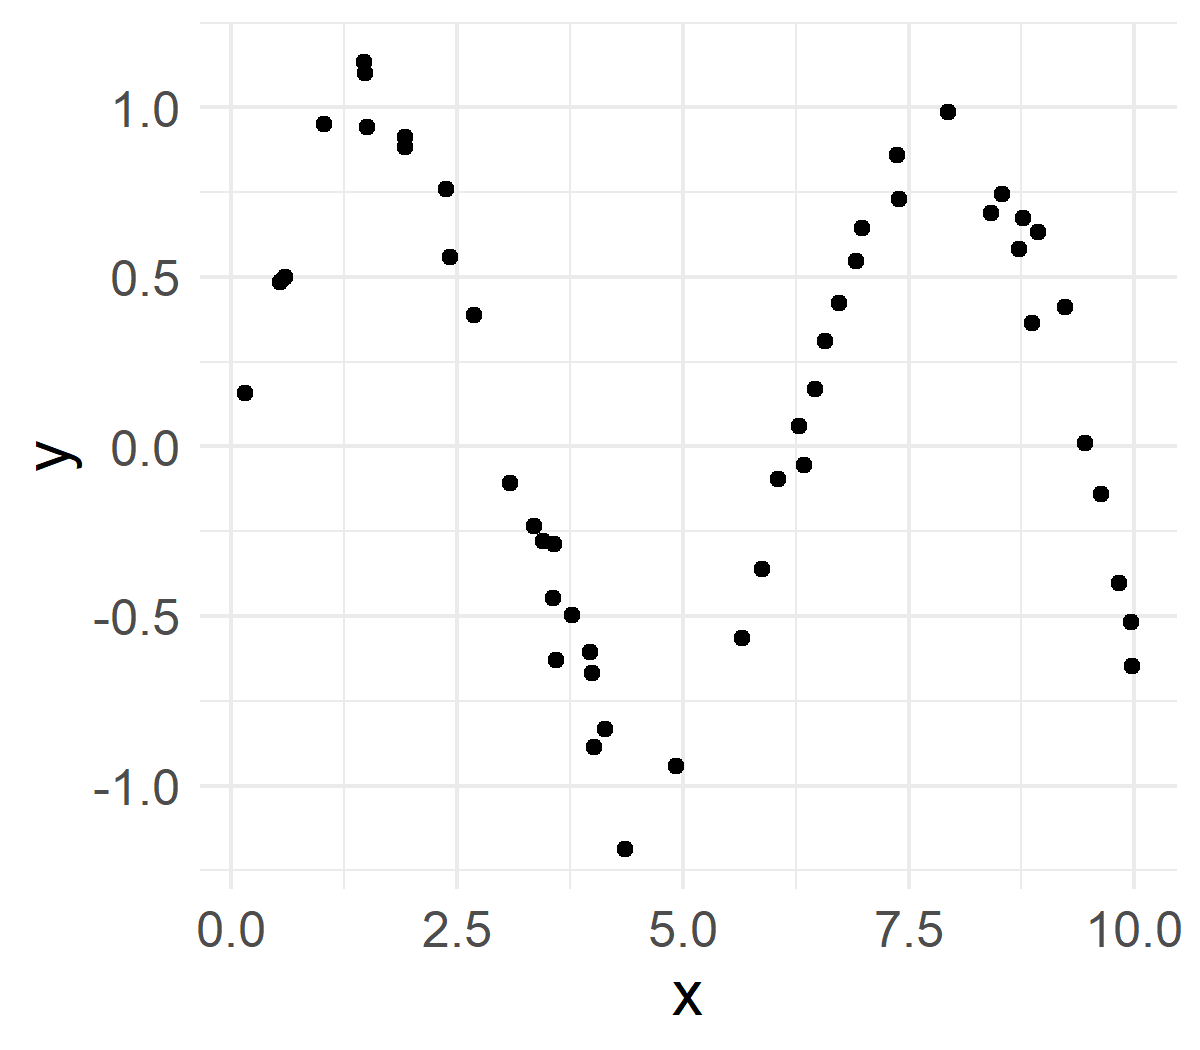
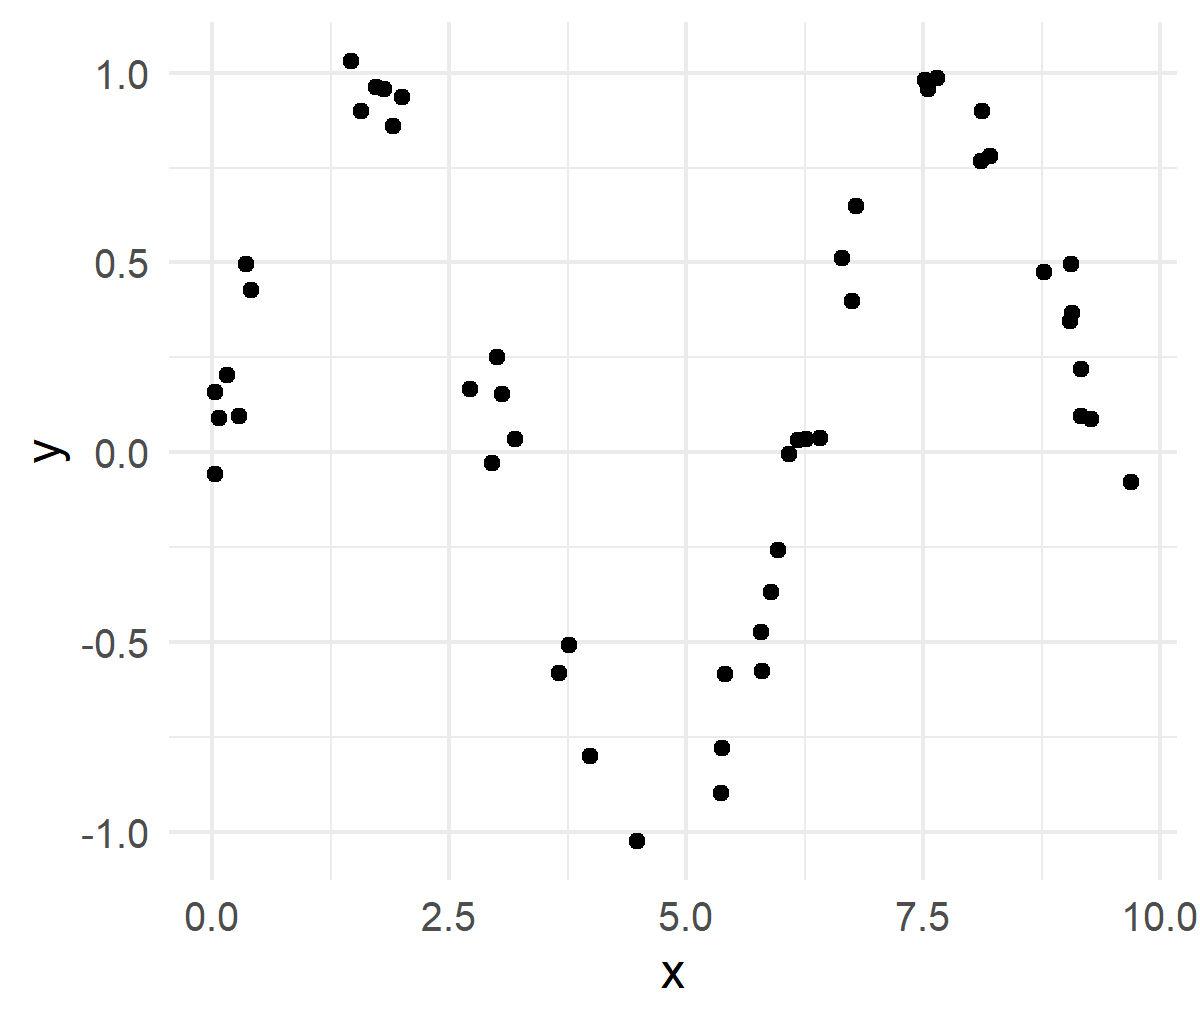
revised gbm animation

diff --git a/slides/boosting/slides-boosting-gbm-with-trees.tex b/slides/boosting/slides-boosting-gbm-with-trees.tex
@@ -135,7 +135,7 @@ $$ \ctmt = \argmin_{c} \sum_{\xi \in \Rtm} L(\yi, \fmd(\xi) + c). $$
 % !!! ADJUST VALUES IF YOU MODIFY SIMULATION (rsrc file contains kable commands)
 
 \textbf{Iteration 0:} initialization by optimal constant (mean) prediction 
-$\hat f^{[0](i)}(x) = \bar{y} \approx 0.14$.
+$\hat f^{[0](i)}(x) = \bar{y} \approx 0.2$.
 
 \vfill
 
@@ -146,11 +146,11 @@ $\hat f^{[0](i)}(x) = \bar{y} \approx 0.14$.
   \begin{tabular}{r|r|r|r}
     $i$ & $x^{(i)}$ & $\yi$ & $\hat{f}^{[0]}$ \\
     \hline
-    1 & 0.15 & 0.16 & 0.14\\
-    2 & 0.54 & 0.49 & 0.14\\
-    3 & 0.60 & 0.50 & 0.14\\
+    1 & 0.03 & 0.16 & 0.20 \\
+    2 & 0.03 & -0.06 & 0.20 \\
+    3 & 0.07 & 0.09 & 0.20 \\
     \vdots & \vdots & \vdots & \vdots \\
-    50 & 9.98 & -0.65 & 0.14\\
+    50 & 9.69 & -0.08 & 0.20 \\
   \end{tabular}
 \end{minipage}%
 \begin{minipage}[c]{0.05\textwidth}
@@ -167,7 +167,10 @@ $\hat f^{[0](i)}(x) = \bar{y} \approx 0.14$.
 
 % ------------------------------------------------------------------------------
 
+% !!! ADJUST VALUES IF YOU MODIFY SIMULATION (rsrc file contains kable commands)
+
 \begin{footnotesize}
+
 \textbf{Iteration 1:} (1) Calculate residuals $\tilde{r}^{[m](i)}$ and (2) 
 fit a regression stump $b^{[m]}.$ %which is multiplied by the learning rate $\beta$% (here: $\hat \beta^{[1]} = 1$).
 
@@ -181,11 +184,11 @@ fit a regression stump $b^{[m]}.$ %which is multiplied by the learning rate $\be
     $i$ & $x^{(i)}$ & $\yi$ & $\hat{f}^{[0]}$ & $\tilde{r}^{[1](i)}$ & 
     $\hat{b}^{[1](i)}$\\ 
     \hline
-    1 & 0.15 & 0.16 & 0.14 & & \\
-    2 & 0.54 & 0.49 & 0.14 & & \\
-    3 & 0.60 & 0.50 & 0.14 & & \\
+    1 & 0.03 & 0.16 & 0.20 & -0.04 & -0.17 \\
+    2 & 0.03 & -0.06 & 0.20 & -0.25 & -0.17 \\
+    3 & 0.07 & 0.09 & 0.20 & -0.11 & -0.17 \\
     \vdots & \vdots & \vdots & \vdots & \vdots & \vdots \\
-    50 & 9.98 & -0.65 & 0.14 & & \\
+    50 & 9.69 & -0.08 & 0.20 & -0.27 & 0.33 \\
   \end{tabular}
 \end{minipage}%
 \begin{minipage}[c]{0.05\textwidth}
@@ -206,38 +209,20 @@ fit a regression stump $b^{[m]}.$ %which is multiplied by the learning rate $\be
 % ------------------------------------------------------------------------------
 
 \begin{frame}{Visualization 1}
+
+\footnotesize
 Repeat step (1) to (3):
+
 \begin{center}
-\only<1>{ \includegraphics[width=0.6\textwidth]{figure_man/gbm_anim_02.png} }
-\only<2>{ \includegraphics[width=0.6\textwidth]{figure_man/gbm_anim_03.png} }
-\only<3>{ \includegraphics[width=0.6\textwidth]{figure_man/gbm_anim_04.png} }
-\only<4>{ \includegraphics[width=0.6\textwidth]{figure_man/gbm_anim_05.png} }
-\only<5>{ \includegraphics[width=0.6\textwidth]{figure_man/gbm_anim_31.png} }
+  \only<1>{ \includegraphics[width=\textwidth]{figure/gbm_anim_02.png} }
+  \only<2>{ \includegraphics[width=\textwidth]{figure/gbm_anim_03.png} }
+  \only<3>{ \includegraphics[width=\textwidth]{figure/gbm_anim_04.png} }
+  \only<4>{ \includegraphics[width=\textwidth]{figure/gbm_anim_05.png} }
+  \only<5>{ \includegraphics[width=\textwidth]{figure/gbm_anim_06.png} }
+  \only<6>{ \includegraphics[width=\textwidth]{figure/gbm_anim_51.png} }
 \end{center}
 
 \end{frame}
-% 
-% \begin{columns}
-% \begin{column}{0.6\textwidth}
-% \begin{center}
-% \only<1>{ \includegraphics[width=\textwidth]{figure_man/gbm_anim_01.png} }
-% \only<2>{ \includegraphics[width=\textwidth]{figure_man/gbm_anim_02.png} }
-% \only<3>{ \includegraphics[width=\textwidth]{figure_man/gbm_anim_03.png} }
-% \only<4>{ \includegraphics[width=\textwidth]{figure_man/gbm_anim_04.png} }
-% \only<5>{ \includegraphics[width=\textwidth]{figure_man/gbm_anim_05.png} }
-% \only<6>{ \includegraphics[width=\textwidth]{figure_man/gbm_anim_31.png} }
-% \end{center}
-% \end{column}
-% \begin{column}{0.4\textwidth}
-% \begin{itemize}
-% \item L2 loss and stumps.
-% \item Left = current additive model.
-% \item Right = Residuals and fitted base learner.
-% \item Plot is created by a self-implementation of GB where step size found by line search.
-% \end{itemize}
-% \end{column}
-% \end{columns}
-% \end{frame}
 
 % ------------------------------------------------------------------------------
 
